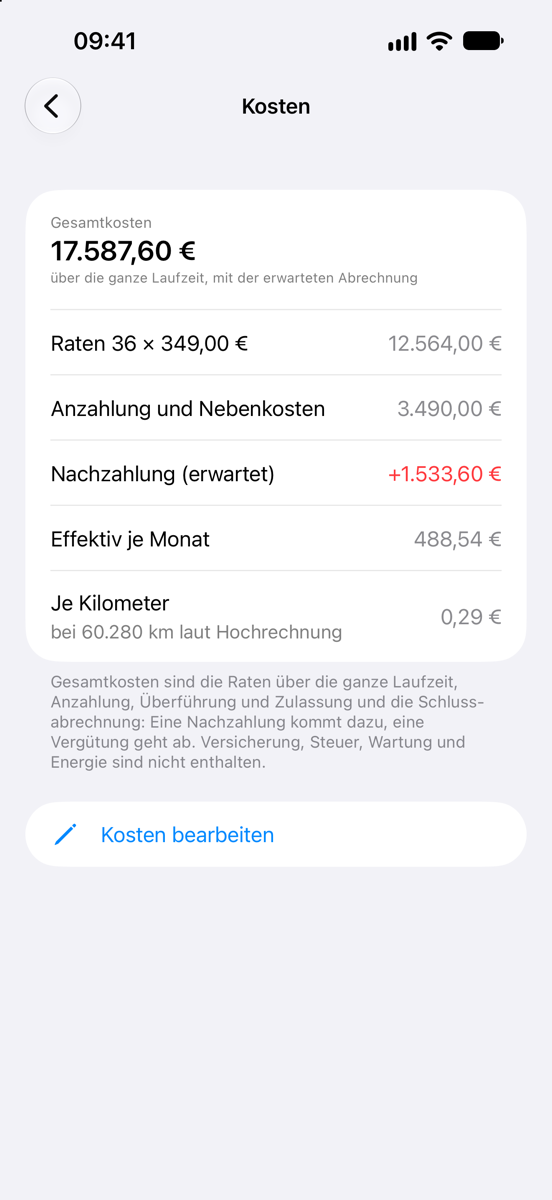
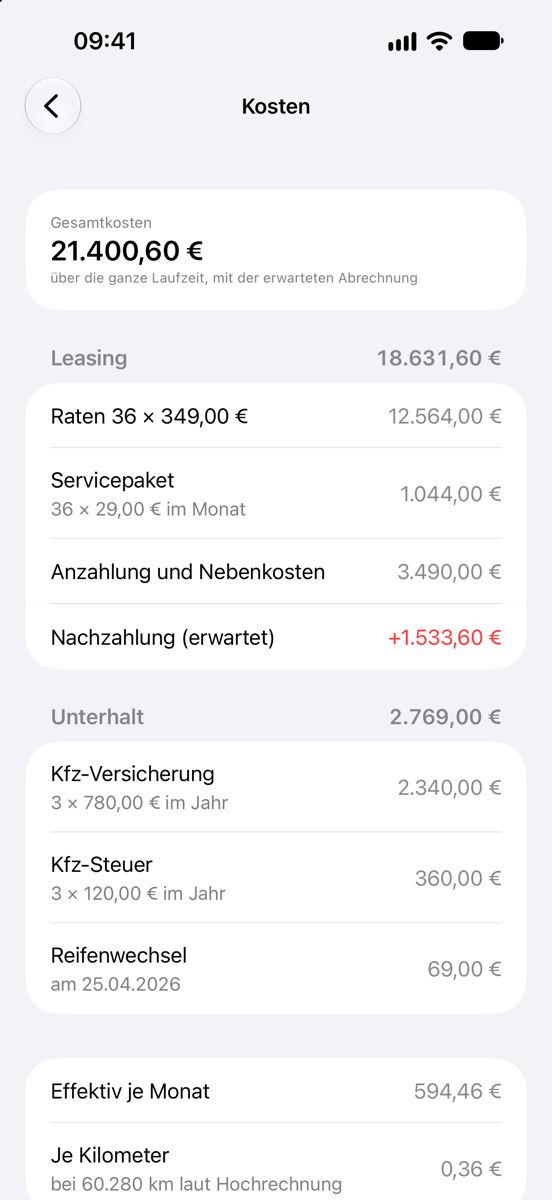
Version 1.5: Kostenposten, Galeriebild Kosten, Datenschutz Stand 16.10.

diff --git a/index.html b/index.html
@@ -96,7 +96,7 @@
         <figcaption><strong>Was kostet diese Fahrt?</strong> Und mit welchem Auto sie am günstigsten ist</figcaption>
       </figure>
       <figure>
-        <img src="bilder/12-Kosten.png" width="552" height="1200" loading="lazy" decoding="async" alt="Seite „Kosten“ eines Vertrags: Gesamtkosten 17.587,60 Euro über die ganze Laufzeit, aufgeteilt in 36 Raten zu 349 Euro, Anzahlung und Nebenkosten und die erwartete Nachzahlung, dazu effektiv 488,54 Euro je Monat und 29 Cent je Kilometer." />
+        <img src="bilder/12-Kosten.png" width="552" height="1200" loading="lazy" decoding="async" alt="Seite „Kosten“ eines Vertrags: Gesamtkosten 21.400,60 Euro über die ganze Laufzeit. Darunter Leasing mit 18.631,60 Euro – 36 Raten zu 349 Euro, Servicepaket, Anzahlung und Nebenkosten und die erwartete Nachzahlung – und Unterhalt mit 2.769 Euro für Versicherung, Steuer und einen Reifenwechsel, dazu effektiv 594,46 Euro je Monat und 36 Cent je Kilometer." />
         <figcaption><strong>Was kostet dein Leasing wirklich?</strong> Raten, Anzahlung und Abrechnung zusammen</figcaption>
       </figure>
       <figure>
@@ -164,7 +164,7 @@
         </li>
         <li>
           <h4>Was kostet dein Leasing wirklich?</h4>
-          <p>Trag Monatsrate, Anzahlung, Überführung und Zulassung ein, und die App rechnet die Gesamtkosten über die Laufzeit aus – mit der erwarteten Nachzahlung oder Vergütung, effektiv je Monat und je gefahrenem Kilometer. Auf der Startseite stehen die Raten aller Autos zusammen.</p>
+          <p>Trag Monatsrate, Anzahlung, Überführung und Zulassung ein, dazu Versicherung, Steuer, ein Servicepaket oder eigene Posten – monatlich, jährlich oder einmal. Die App rechnet die Gesamtkosten über die Laufzeit aus, mit der erwarteten Nachzahlung oder Vergütung, getrennt nach Leasing und Unterhalt, effektiv je Monat und je gefahrenem Kilometer. Was eine Inspektion gekostet hat, trägst du gleich beim Abhaken ein. Auf der Startseite stehen die Raten aller Autos zusammen.</p>
         </li>
         <li>
           <h4>Rechnet wie dein Vertrag</h4>

diff --git a/datenschutz.html b/datenschutz.html
@@ -26,7 +26,7 @@
   <div class="spalte">
 
     <h1>Datenschutzerklärung für die App „Leasingtacho“</h1>
-    <p class="stand">Stand: 13.&#160;Oktober 2026</p>
+    <p class="stand">Stand: 16.&#160;Oktober 2026</p>
 
     <h2>Verantwortlicher</h2>
     <address>
@@ -43,6 +43,7 @@
       <li><strong>Vertragsdaten:</strong> Fahrzeugbezeichnung, Vertragsbeginn und Laufzeit, vereinbarte Laufleistung, Kilometerstand bei Übernahme, Sätze für Mehr- und Minderkilometer, Freigrenzen, Einstellungen zur Hochrechnung und Erinnerung, auf Wunsch Monatsrate, Anzahlung und Nebenkosten sowie deine Notizen.</li>
       <li><strong>Ablesungen:</strong> Datum, Kilometerstand und Notiz.</li>
       <li><strong>Wartungstermine:</strong> Art, Bezeichnung, Fälligkeit nach Datum oder Kilometerstand, Abstand und letzte Erledigung.</li>
+      <li><strong>Kostenposten:</strong> Art, Bezeichnung, Betrag, wie oft er anfällt, ob er zum Leasing oder zum Unterhalt gehört, ob es eine Gutschrift ist und bei einmaligen Posten das Datum.</li>
       <li><strong>Einstellungen:</strong> Erscheinungsbild, App-Sperre, die zuletzt gewählte Ansicht des Diagramms und wann die App zuletzt um eine Bewertung gebeten hat.</li>
     </ul>
     <p>Diese Daten speichert die App auf deinem Gerät. Sie dienen allein dazu, dir deinen Stand im Leasingvertrag zu zeigen.</p>
